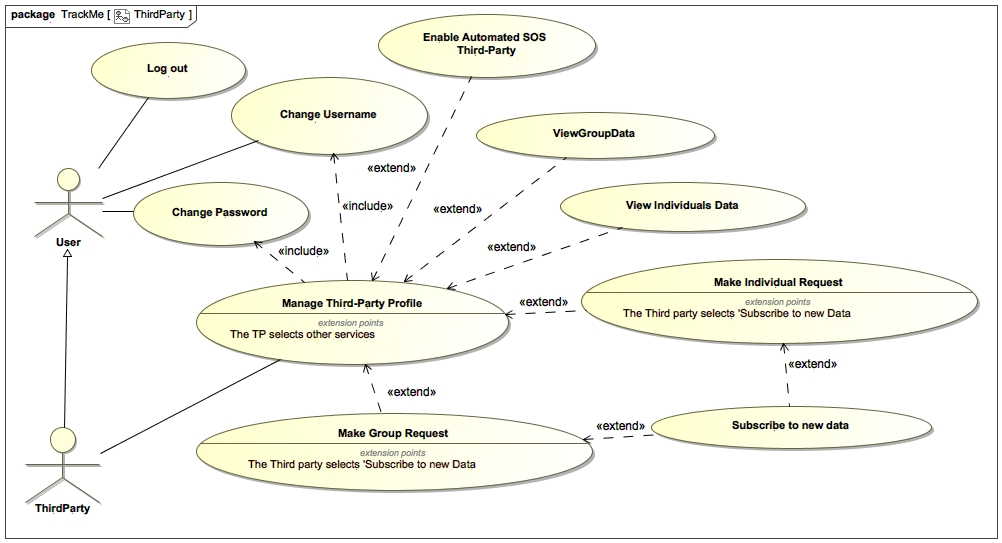
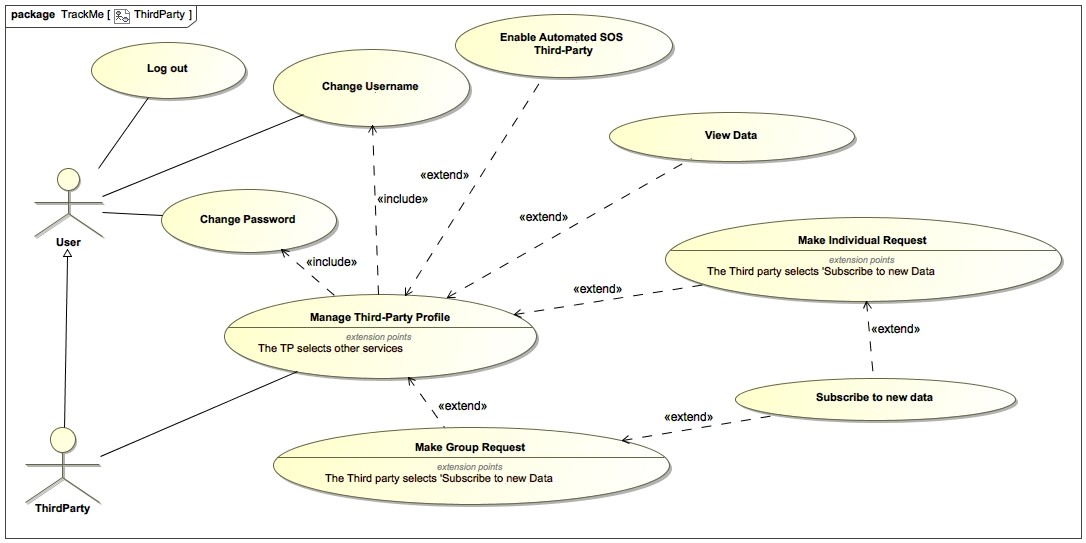
Updates from ShareLaTeX

diff --git a/RASD/main.tex b/RASD/main.tex
@@ -110,6 +110,7 @@
             \item[GOAL-20] The Athlete should be able to enroll a run.
             \item[GOAL-21] The Athlete should be able to unroll a run
             \item[GOAL-22] The Spectator should be able to watch a run.
+            \item[GOAL-23] The Third Party should be able to view Individual's data to whom has sent a request.
         \end{description}
     
     \subsection{Document Overview}
@@ -137,7 +138,7 @@
                     
                     \item[\textbf{Run Started}] a competition with at least two \textit{Athletes} enrolled that the \textit{Organizer} has started
                     
-                    \item[\textbf{Run Not-Started}] a competition with any number of \textit{Athletes} enrolled
+                    \item[\textbf{Run Created}] a competition with any number of \textit{Athletes} enrolled
                     
                     \item[\textbf{Map}] The map of the predefined track of the run with athletes' positions
                     
@@ -205,36 +206,37 @@
     
     The system should be able to query the database for storing and retrieving both users' credentials and personal data, besides of keeping everything synchronized between all the application instances.
     
+    \newpage
     \subsubsection{Domain Model}
     \begin{figure}[!ht]
         \centering
-        \includegraphics[width=\textwidth]{images/UML/ClassDiagram.jpg}
+        \includegraphics[width=\textwidth, keepaspectratio]{images/UML/ClassDiagram.jpg}
         \caption{Domain Model}
     \end{figure}
     
     \newpage
-    
     \subsubsection{State Charts}
-    \begin{figure}[!ht]
+    
+    \begin{figure}[!htpb]
         \centering
-        \includegraphics[width=\textwidth, keepaspectratio]{images/UML/state_individualRequest.png}
-        \caption{State Chart Individual Request}
-        \label{fig:state_individual}
+        \includegraphics[width=100mm, keepaspectratio]{images/UML/state_request.jpg}
+        \caption{State Chart of a Request}
     \end{figure}
-    \begin{figure}[!ht]
+    
+    \begin{figure}[!htpb]
         \centering
-        \includegraphics[width=\textwidth, keepaspectratio]{images/UML/state_groupRequest.png}
-        \caption{State Chart Group Request}
-        \label{fig:state_group}
+        \includegraphics[width=100mm, keepaspectratio]{images/UML/state_sos.jpg}
+        \caption{State Chart of Sos service}
     \end{figure}
-    \begin{figure}[!ht]
+    
+    \begin{figure}[!htpb]
         \centering
-        \includegraphics[width=\textwidth, keepaspectratio]{images/UML/state_run.png}
-        \caption{State Chart Run}
-        \label{fig:state_run}
+        \includegraphics[width=80mm, keepaspectratio]{images/UML/state_run.jpg}
+        \caption{State Chart of a Run}
     \end{figure}
+    
     \newpage
-
+    
     \subsection{Product Functions}
     \textit{TrackMe} will provide three main services: \textit{Data4Help}, \textit{Automated-SOS} and \textit{Track4Run}.
     
@@ -309,10 +311,10 @@
         \item[A-22] The individual has approved \textit{TrackMe}'s terms of use.
         \item[A-23] The individual has received at least an individual request.
         \item[A-24] The individual has accepted the individual request.
-        \item[A-25] The system can access individual's mobile device position through GPS.
-        \item[A-26] Username is not already taken.
-        \item[A-27] Password is valid (i.e.: at least 8 alphanumerical characters).
-        \item[A-28] The run has not been started.
+        \item[A-25] Username is not already taken.
+        \item[A-26] Password is valid (i.e.: at least 8 alphanumerical characters).
+        \item[A-27] The run has not been started.
+        \item[A-28] The individual has received an individual request a specific Third Party.
         \end{description}
         
 %%%%%%%%%%%%%%%%%%%%%%%%%%%%%%%%%%%%%%%%%%%%%%%%%%%%%%%%%%%%%%
@@ -411,11 +413,11 @@
                 	\end{description}
                 	\item
                 	\begin{description}
-                	\item[A-26] Username is not already taken.
+                	\item[A-25] Username is not already taken.
                 	\end{description}
                 	\item
                 	\begin{description}
-                	\item[A-27] Password is valid (i.e.: at least 8 alphanumerical characters).
+                	\item[A-26] Password is valid (i.e.: at least 8 alphanumerical characters).
                 	\end{description}
                 	\item
                 	\begin{description}
@@ -454,11 +456,11 @@
                 	\end{description}
                 	\item
                 	\begin{description}
-                	\item[A-26] Username is not already taken.
+                	\item[A-25] Username is not already taken.
                 	\end{description}
                 	\item
                 	\begin{description}
-                	\item[A-27] Password is valid (i.e.: at least 8 alphanumerical characters).
+                	\item[A-26] Password is valid (i.e.: at least 8 alphanumerical characters).
                 	\end{description}
                 	\item
                 	\begin{description}
@@ -543,7 +545,7 @@
                 	\end{description}
                 	\item
                 	\begin{description}
-                	\item[A-26] Username is not already taken.
+                	\item[A-25] Username is not already taken.
                 	\end{description}
                 	\end{itemize}
         \end{description}
@@ -647,7 +649,8 @@
         \actor{Individual.}
         \pre{The User is logged in the system as an Individual and he's on the profile page.}
         \bflow{The system provides a box with the user's description, and a box with the user's image}
-        {\begin{itemize}
+        {Individual can choose above several actions:
+            \begin{itemize}
             \item The Individual can change any of its personal data.
             \item The user can click on the image to update his picture
         \end{itemize}}
@@ -680,7 +683,7 @@
         \actor{Third-Party.}
         \pre{The User is logged in the system as a Third-Party and he's on the profile page.}
         \bflow{The system provides a box with the user's description, and a box with the user's image}
-        {\begin{itemize}
+        {Third Party can choose above several actions:\begin{itemize}
             \item The Third-Party can change any of its personal data.
             \item The user can click on the image to update his picture
         \end{itemize}}
@@ -778,7 +781,7 @@
                 	\end{description}
                 	\item
                 	\begin{description}
-                	\item[A-23] The individual has received at least an individual request.
+                	\item[A-28] The individual has received an individual request a specific Third Party.
                 	\end{description}
                 	\item
                 	\begin{description}
@@ -830,15 +833,34 @@
               {TrackMe sends to the third-party a confirmation about his request for that Individual.}
         \post{The third party has access to the Individual data.}
         \end{usecase}
+        \vfill
         
+        \begin{description}
+        	\item[GOAL-23] The Third Party should be able to view Individual's data to whom has sent a request. 
+            	\begin{itemize}
+            	    \item[\requirement]
+                	\begin{description}
+                	\item[REQ-27] Data4help must allow the Third Party to see a list of sent requests and related Individual's data.
+                	\end{description}
+                	\item
+                	\begin{description}
+                	\item[A-06] The user is logged in the system.
+                	\end{description}
+                	\end{itemize}
+        \end{description}
         
         \begin{usecase}{View Data}
         \name{View Data}
-        \brief{A Third-Party can view the Data of the Individuals that have accepted its requests.}
+        \brief{A Third-Party can view the Data of the Individuals that have received its request.}
         \actor{Third-Party.}
-        \pre{The Third-Party is logged-in and Is in the section to see the data collected by the application.}
-        \bflow{The system provides a list of all request sent by the Third-Party}
-        \post{The Third-Party can observe the Individual data.}
+        \pre{The Third-Party is logged-in and is in the section to view the data collected by the application.}
+        \bflow{The system provides a list of all request sent by the Third-Party, both individual and group requests}
+        {Third Party can choose above several actions:
+        \begin{itemize}
+            \item Third Party select the user to which has sent at least an individual request
+            \item Third Party clicks on the group request she has sent
+        \end{itemize}}
+        \post{The Third-Party can view the Individual data, create graphs, publish analysis.}
         \end{usecase}
         
         
@@ -935,10 +957,6 @@
                 	\item
                 	\begin{description}
                 	\item[A-06] The user is logged in the system.
-                	\end{description}
-                	\item
-                	\begin{description}
-                	\item[A-25] The system can access individual's mobile device position through GPS.
                 	\end{description}
                 	\end{itemize}
         \end{description}
@@ -1087,7 +1105,7 @@
                 	\end{description}
                 	\item
                 	\begin{description}
-                	\item[A-28] The run has not been started.
+                	\item[A-27] The run has not been started.
                 	\end{description}
                 	\end{itemize}
         \end{description}
@@ -1176,10 +1194,6 @@
                 	\item
                 	\begin{description}
                 	\item[A-21] There is at least one started run.
-                	\end{description}
-                	\item
-                	\begin{description}
-                	\item[A-25] The system can access individual's mobile device position through GPS.
                 	\end{description}
                 	\end{itemize}
         \end{description}
@@ -1282,7 +1296,6 @@
     
     \lstinputlisting[language=Alloy, caption=Track4Run model definition, firstline=49, lastline=78]{TrackMeAlloyModel.als}
     
-    \newpage
 \subsection{Facts}
     \lstinputlisting[language=Alloy, caption=Common facts, firstline=79, lastline=87]{TrackMeAlloyModel.als}
     
@@ -1292,7 +1305,6 @@
     
     \lstinputlisting[language=Alloy, caption=Track4Run facts, firstline=138, lastline=179]{TrackMeAlloyModel.als}
     
-    \newpage
 \subsection{Predicates}
 
     \lstinputlisting[language=Alloy, caption=Data4Help predicates, firstline=180, lastline=199]{TrackMeAlloyModel.als}
@@ -1303,7 +1315,7 @@
     
     \lstinputlisting[language=Alloy, caption=Common predicates, firstline=240, lastline=283]{TrackMeAlloyModel.als}
     
-    \newpage
+\newpage
 \subsection{Worlds}
     \lstinputlisting[language=Alloy, caption=Run data4Help, firstline=284, lastline=284]{TrackMeAlloyModel.als}
     \begin{figure}[!ht]
@@ -1316,18 +1328,19 @@
     	\centering
     	\includegraphics[width=\textwidth]{RASD/images/alloy/automatedSOS.png}
     \end{figure}
+    
     \lstinputlisting[language=Alloy, caption=Run track4Run, firstline=286, lastline=286]{TrackMeAlloyModel.als}
     \begin{figure}[!ht]
     	\centering
     	\includegraphics[width=\textwidth]{RASD/images/alloy/track4Run.png}
     \end{figure}
+    
     \newpage
     \lstinputlisting[language=Alloy, caption=Run showAll, firstline=287, lastline=287]{TrackMeAlloyModel.als}
     \begin{figure}[!ht]
     	\centering
     	\includegraphics[width=0.91\paperwidth, angle=90]{RASD/images/alloy/showAll.png}
     \end{figure}
-    \newpage
 %%%%%%%%%%%%%%%%%%%%%%%%%%%%%%%%%%%%%%%%%%%%%%%%%%%%%%%%%%%%%%
 \section{Effort Spent}
     \begin{itemize}
